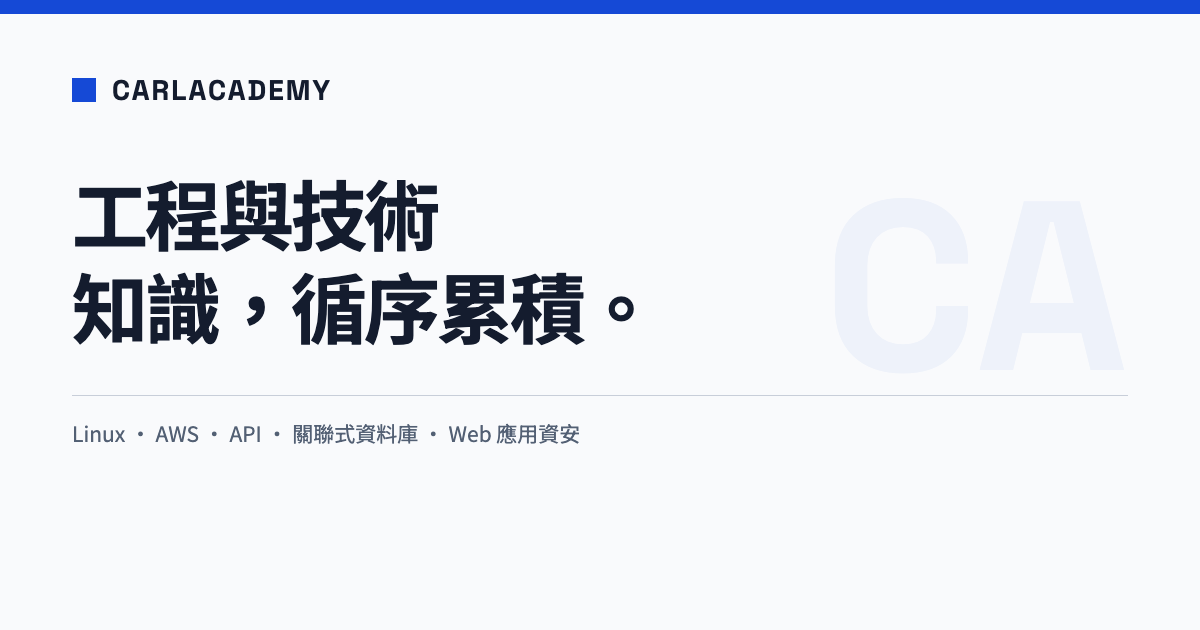
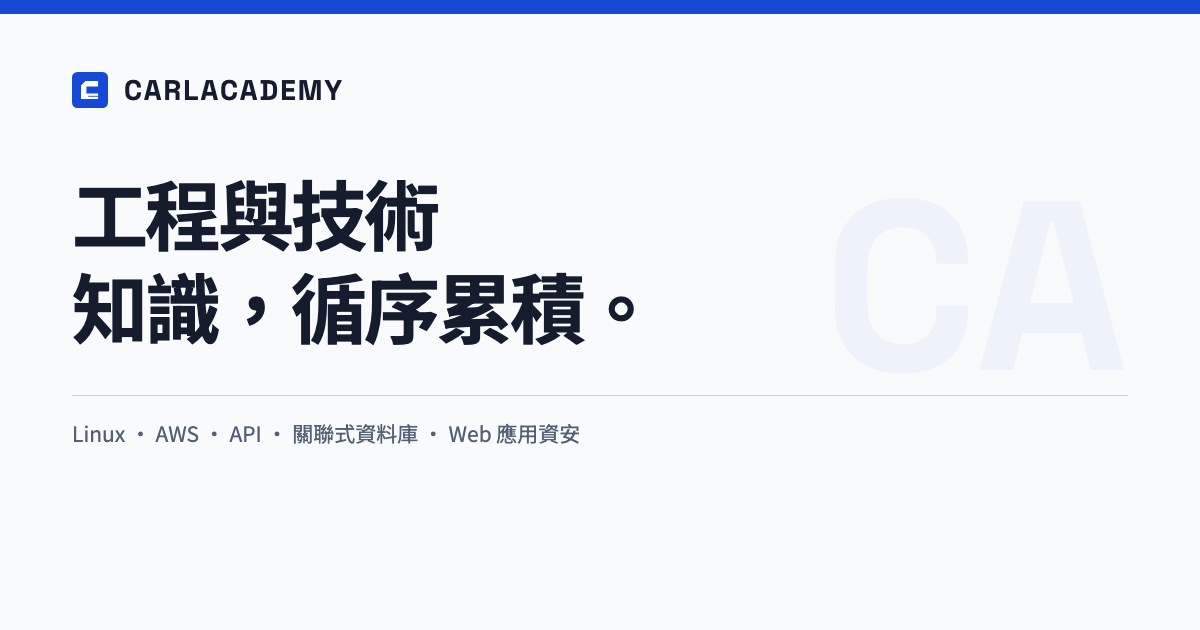
feat: polish site branding, links and sharing controls
Give the document site a consistent identity with an SVG logo, favicon
and a generated paper-folio illustration optimized by Astro as WebP.
Refine link emphasis and share controls while preserving canonical URLs,
clipboard fallbacks, keyboard focus and no-JavaScript platform sharing.

Verified with pnpm run verify: all 56 tests pass across root and subpath
builds, 127 public routes and 508 layout combinations. Inspected desktop,
mobile and dark-mode renders; no dependencies or data migrations added.

Changed region(s): [[0.0617, 0.0905, 0.3083, 0.181]]

diff --git a/src/styles/share-tools.css b/src/styles/share-tools.css
@@ -1,13 +1,50 @@
-.share-tools { margin:48px 0 0; padding:24px 0; border-top:1px solid var(--line); color:var(--ink); }
-.share-heading { margin:0 0 12px; font-weight:700; }
-.share-actions, .share-links { display:flex; align-items:center; flex-wrap:wrap; gap:8px; }
-.share-actions button, .share-links a { display:inline-flex; align-items:center; justify-content:center; min-height:44px; padding:8px 14px; border:1px solid var(--line); border-radius:4px; background:var(--paper); color:var(--ink); font:inherit; font-size:15px; text-decoration:none; cursor:pointer; }
-.share-actions button:hover, .share-links a:hover { color:var(--accent); border-color:var(--accent); }
-.share-actions button:disabled { opacity:.6; cursor:wait; }
-.share-actions [hidden], .share-fallback[hidden] { display:none; }
-.share-status, .share-note { margin:12px 0 0; color:var(--muted); font-size:14px; }
-.share-status:empty { display:none; }
-.share-fallback { display:block; margin-top:12px; font-size:14px; }
-.share-fallback input { display:block; margin-top:8px; padding:10px; width:100%; min-height:44px; border:1px solid var(--line); border-radius:4px; background:var(--paper); color:var(--ink); font:inherit; }
-.share-sr-only { position:absolute; width:1px; height:1px; overflow:hidden; clip-path:inset(50%); }
-@media(max-width:700px) { .share-tools { margin-top:32px; } }
+.share-tools {
+  display: grid;
+  grid-template-columns: minmax(180px, 1fr) auto;
+  align-items: center;
+  gap: 16px 32px;
+  margin: 48px 0 0;
+  padding: 32px 0;
+  border-top: 2px solid var(--ink);
+  color: var(--ink);
+}
+.share-heading { margin: 0; font-weight: 700; font-size: 16px; }
+.share-caption { margin: 4px 0 0; color: var(--muted); font-size: 14px; }
+.share-actions, .share-links { display: flex; align-items: center; flex-wrap: wrap; gap: 8px; }
+.share-actions button, .share-links a {
+  display: inline-flex;
+  align-items: center;
+  justify-content: center;
+  gap: 8px;
+  min-height: 44px;
+  padding: 8px 16px;
+  border: 1px solid var(--line);
+  border-radius: 4px;
+  background: var(--paper);
+  color: var(--ink);
+  font: inherit;
+  font-size: 14px;
+  font-weight: 500;
+  text-decoration: none;
+  cursor: pointer;
+  transition: background-color 150ms ease, border-color 150ms ease, color 150ms ease;
+}
+.share-actions [data-share-copy] { background: var(--block); border-color: var(--block); color: var(--on-block); }
+.share-actions button:hover, .share-links a:hover { background: var(--wash); border-color: var(--accent); color: var(--accent); }
+.share-actions [data-share-copy]:hover { background: var(--ink); border-color: var(--ink); color: var(--paper); }
+.share-actions button:active, .share-links a:active { border-color: var(--ink); }
+.share-actions button:disabled { opacity: .6; cursor: wait; }
+.share-icon { display: block; width: 20px; height: 20px; flex: none; }
+.share-links .share-icon { width: 14px; height: 14px; color: var(--muted); }
+.share-tools [hidden] { display: none; }
+.share-status, .share-note { grid-column: 1 / -1; margin: 0; color: var(--muted); font-size: 14px; }
+.share-status:empty { display: none; }
+.share-fallback { grid-column: 1 / -1; display: block; font-size: 14px; }
+.share-fallback input { display: block; margin-top: 8px; padding: 12px; width: 100%; min-height: 44px; border: 1px solid var(--line); border-radius: 4px; background: var(--paper); color: var(--ink); font: inherit; }
+.share-sr-only { position: absolute; width: 1px; height: 1px; overflow: hidden; clip-path: inset(50%); }
+@media (max-width: 1050px) { .share-tools { grid-template-columns: 1fr; } }
+@media (max-width: 700px) {
+  .share-tools { margin-top: 32px; padding: 24px 0; }
+  .share-links { flex-basis: 100%; margin-top: 8px; }
+}
+@media (prefers-reduced-motion: reduce) { .share-actions button, .share-links a { transition: none; } }

diff --git a/src/styles/site.css b/src/styles/site.css
@@ -58,7 +58,9 @@ body {
 }
 a {
   color: inherit;
-  text-underline-offset: 4px;
+  text-decoration-thickness: 1px;
+  text-underline-offset: 0.22em;
+  text-decoration-skip-ink: auto;
 }
 button,
 input,
@@ -143,8 +145,15 @@ main:focus {
   display: flex;
   align-items: center;
   min-height: 44px;
+  gap: 10px;
 }
-.wordmark span {
+.wordmark > img {
+  flex: none;
+  width: 32px;
+  height: 32px;
+}
+.wordmark .wordmark-name { color: var(--ink); }
+.wordmark-name > span {
   color: var(--accent);
 }
 .global-nav {
@@ -167,6 +176,11 @@ main:focus {
   color: var(--accent);
   text-decoration: underline;
   text-decoration-thickness: 2px;
+  text-underline-offset: 8px;
+}
+.global-nav a:hover {
+  color: var(--accent);
+  text-decoration: underline;
   text-underline-offset: 8px;
 }
 .tools {
@@ -217,6 +231,10 @@ select {
   align-items: center;
   min-height: 44px;
   text-decoration: none;
+}
+.page-footer a:hover {
+  color: var(--accent);
+  text-decoration: underline;
 }
 .home-masthead,
 .masthead {
@@ -269,6 +287,16 @@ select {
   color: var(--on-block);
   font-size: 14px;
   letter-spacing: 1px;
+}
+.home-intro { min-width: 0; }
+.home-illustration {
+  display: block;
+  width: 280px;
+  max-width: 100%;
+  height: 180px;
+  object-fit: contain;
+  object-position: left center;
+  margin: 0 0 24px;
 }
 .home-masthead h1,
 .topic-masthead h1,
@@ -498,6 +526,22 @@ select {
 .reading {
   max-width: 880px;
 }
+:is(#article-body, #topic-reading) a {
+  color: var(--accent);
+  font-weight: 500;
+  text-decoration-line: underline;
+  text-decoration-color: color-mix(in srgb, currentColor 45%, transparent);
+  text-decoration-thickness: 1px;
+  text-underline-offset: 0.22em;
+  overflow-wrap: anywhere;
+}
+:is(#article-body, #topic-reading) a:is(:hover, :focus-visible) {
+  text-decoration-color: currentColor;
+  text-decoration-thickness: 2px;
+}
+:is(#article-body, #topic-reading) :is(strong, b, h2, h3, h4, h5, h6) a {
+  font-weight: inherit;
+}
 pre {
   max-width: 100%;
   overflow: auto;
@@ -578,6 +622,19 @@ code {
     padding: 20px 0;
     gap: 16px;
   }
+  .wordmark { font-size: 22px; gap: 8px; }
+  .wordmark > img { width: 28px; height: 28px; }
+  .home-intro { display: contents; }
+  .home-illustration {
+    position: absolute;
+    top: 40px;
+    right: 0;
+    width: 96px;
+    height: 72px;
+    margin: 0;
+    object-position: right center;
+  }
+  .home-masthead .kicker { max-width: calc(100% - 112px); flex-wrap: wrap; gap: 8px; }
   .theme-control select {
     font-size: 14px;
     padding: 4px;

diff --git a/src/styles/article.css b/src/styles/article.css
@@ -1,5 +1,6 @@
 .article-breadcrumb { display:flex; flex-wrap:wrap; gap:16px; font-size:14px; color:var(--muted); margin-top:24px; }
-.article-breadcrumb a { min-height:24px; }
+.article-breadcrumb a { min-height:24px; text-decoration-color:var(--line); }
+.article-breadcrumb a:is(:hover,:focus-visible) { color:var(--accent); text-decoration-color:currentColor; }
 .article-page .article-masthead { padding:40px 0 44px; }
 .article-masthead .kicker { min-height:48px; margin:0; }
 .article-topic-number { margin-left:auto; font:700 64px/.75 "Academy Grotesk",sans-serif; letter-spacing:-2px; color:transparent; -webkit-text-stroke:1.5px var(--outline); }
@@ -31,7 +32,6 @@
 #article-body :is(p,ul,ol) { margin:0 0 24px; text-wrap:pretty; }
 #article-body :is(ul,ol) { padding-left:24px; }
 #article-body li { margin-bottom:8px; }
-#article-body a { color:var(--accent); overflow-wrap:anywhere; }
 #article-body strong { font-weight:700; }
 #article-body code { font-size:.89em; background:var(--code); padding:2px 4px; overflow-wrap:anywhere; }
 #article-body pre { border-left:6px solid var(--accent); margin:32px 0; line-height:1.7; tab-size:4; }
@@ -46,7 +46,7 @@
 .article-next a { max-width:48%; font:700 24px/1.4 "Academy Grotesk","Academy Sans",sans-serif; letter-spacing:-.5px; text-decoration:none; min-height:44px; }
 .article-next a[rel="next"] { margin-left:auto; }
 .article-next small { display:block; margin-bottom:8px; font:500 14px/1.5 "Academy Grotesk","Academy Sans",sans-serif; letter-spacing:2px; color:var(--on-block-muted); }
-.article-next a:hover { text-decoration:underline; text-underline-offset:6px; }
+.article-next a:is(:hover,:focus-visible) > span { text-decoration:underline; text-decoration-thickness:1px; text-underline-offset:.22em; }
 .article-next :focus-visible { outline-color:var(--on-block); }
 @media (max-width:1050px) {
   .article-layout { grid-template-columns:168px minmax(0,var(--reading-column-width,680px)); column-gap:40px; }

diff --git a/src/scripts/share-tools.ts b/src/scripts/share-tools.ts
@@ -17,14 +17,10 @@ for (const tools of document.querySelectorAll<HTMLElement>('[data-share-tools]')
       ['Facebook', `https://www.facebook.com/sharer/sharer.php?${new URLSearchParams({ u: shareUrl })}`],
       ['X', `https://twitter.com/intent/tweet?${new URLSearchParams({ text: title, url: shareUrl })}`],
     ]) {
-      const link = document.createElement('a');
+      const link = links.querySelector<HTMLAnchorElement>(`[data-share-platform="${label}"]`)!;
       link.href = href;
-      link.textContent = label;
-      link.setAttribute('aria-label', `${label}（在新分頁分享）`);
-      link.target = '_blank';
-      link.rel = 'noopener noreferrer';
-      links.append(link);
     }
+    links.hidden = false;
   }
   const copy = tools.querySelector<HTMLButtonElement>('[data-share-copy]')!;
   copy.hidden = false;

diff --git a/docs/site-design.md b/docs/site-design.md
@@ -75,6 +75,12 @@
 
 ### 元件
 
+- **品牌圖像（2026-11-04 本機實作，待使用者視覺確認）**：頁首使用 `public/logo.svg`，以截角 C 與細線書頁呼應工程文件，保留可選取的 CarlAcademy 文字。首頁插畫源檔為 `src/assets/knowledge-folio.png`，由內建 imagegen 生成透明背景的象牙白／鈷藍紙層 C，透過 Astro Image 輸出 480px WebP。桌面置於閱讀起點上方，手機縮至右上角 96×72px，不承載文件內容，因此使用空 alt。文章與主題頁僅使用共用頁首標誌，圖像不進入正文。
+
+- **文字連結細節（2026-11-04 本機實作，待使用者視覺確認）**：正文與主題延伸閱讀採強調色、500 字重與 1px 淡色底線，底線距文字 0.22em；滑鼠停留或鍵盤聚焦時加深為 2px 底線。連結始終保留底線，不只靠顏色辨識；全站底線避開字形下伸部。麵包屑使用較淡底線，導覽與頁尾停留時出現底線，文末接續閱讀只在文件標題加底線。
+
+- **分頁與分享細節（2026-11-04 本機實作，待使用者視覺確認）**：favicon 使用鈷藍底的幾何 C（`public/favicon.svg`）；文章分享區沿用 14／16px 字級、4px 圓角與既有色彩，標題與操作在桌面左右對齊，窄螢幕改為上下分組。複製連結採藍底，平台與原生分享採框線；內嵌 Lucide 線條圖示，保留文字名稱、44px 操作高度及全站鍵盤焦點。圖示不載入第三方服務，授權見 `../public/licenses/lucide.txt`。
+
 - **海報開場**：
   - 圖號列左側是 32×4 的白色短條加主題名，右側是鏤空主題號（描邊 1.5px，`--outline` 為半透明白）。
   - 標題與提要載入時上浮 24px 淡入，時長 0.7s。

diff --git a/README.md b/README.md
@@ -73,6 +73,10 @@ SITE_URL=https://academy.gravito.dev BASE_PATH=/academy/ pnpm run build
 
 文章文末提供 LINE、Facebook、X、複製連結與支援裝置上的原生分享。停用 JavaScript 時仍可開啟平台分享連結；剪貼簿失敗時顯示可選取的完整網址。分享使用 canonical，不攜帶追蹤查詢參數與章節錨點。平台連結只在讀者點擊時開啟，不載入第三方 SDK。
 
+全站分頁圖示為 `public/favicon.svg`，沿用鈷藍與幾何 C 識別，資源路徑支援 `BASE_PATH`。分享區以藍底複製按鈕與細線平台按鈕區分操作層次，支援淺深外觀、鍵盤焦點與手機換行；內嵌圖示採 Lucide，授權見 `public/licenses/lucide.txt`。
+
+頁首品牌標誌為 `public/logo.svg`；首頁紙層插畫源檔為 `src/assets/knowledge-folio.png`（內建 imagegen 生成），由 Astro 輸出為 WebP，不呼叫外部圖片服務。插畫僅作品牌裝飾，與正文知識圖解分開。
+
 本機測試驗證 metadata 與分享資料，未向社群平台實際貼文，也尚未驗證正式網域的爬蟲抓取、平台快取與搜尋收錄。
 
 執行完整驗證（Astro 檢查、正式建置、產物測試與變更檔案的空白檢查）：
